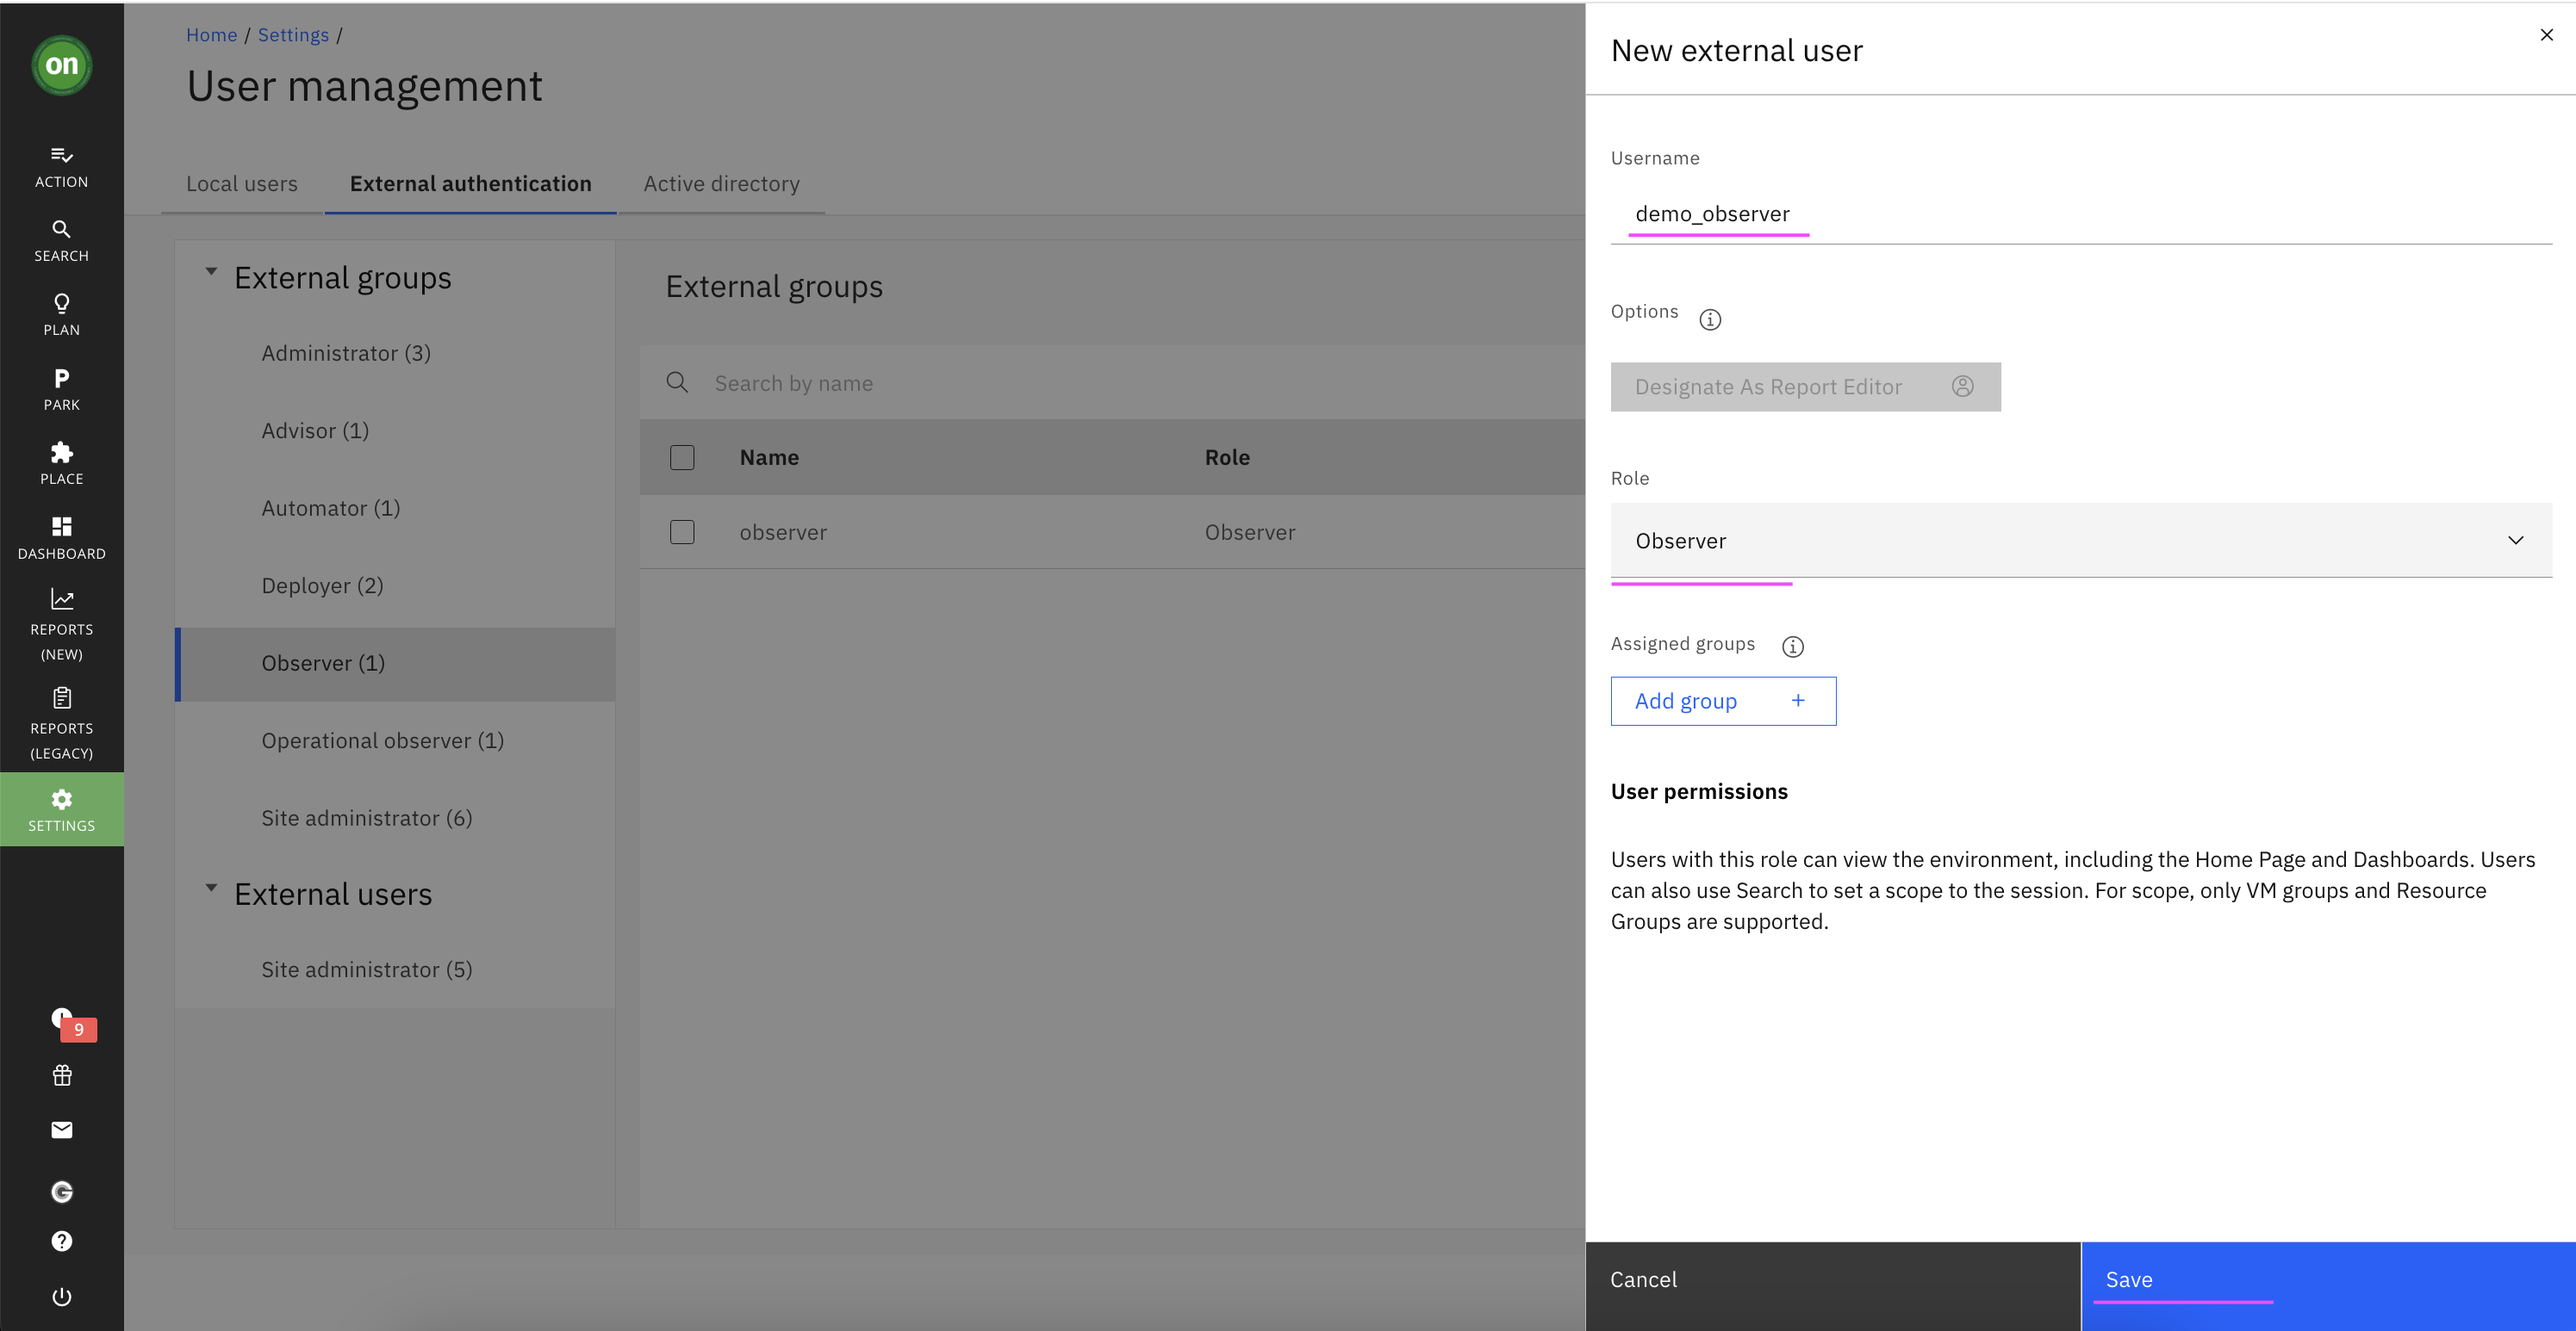
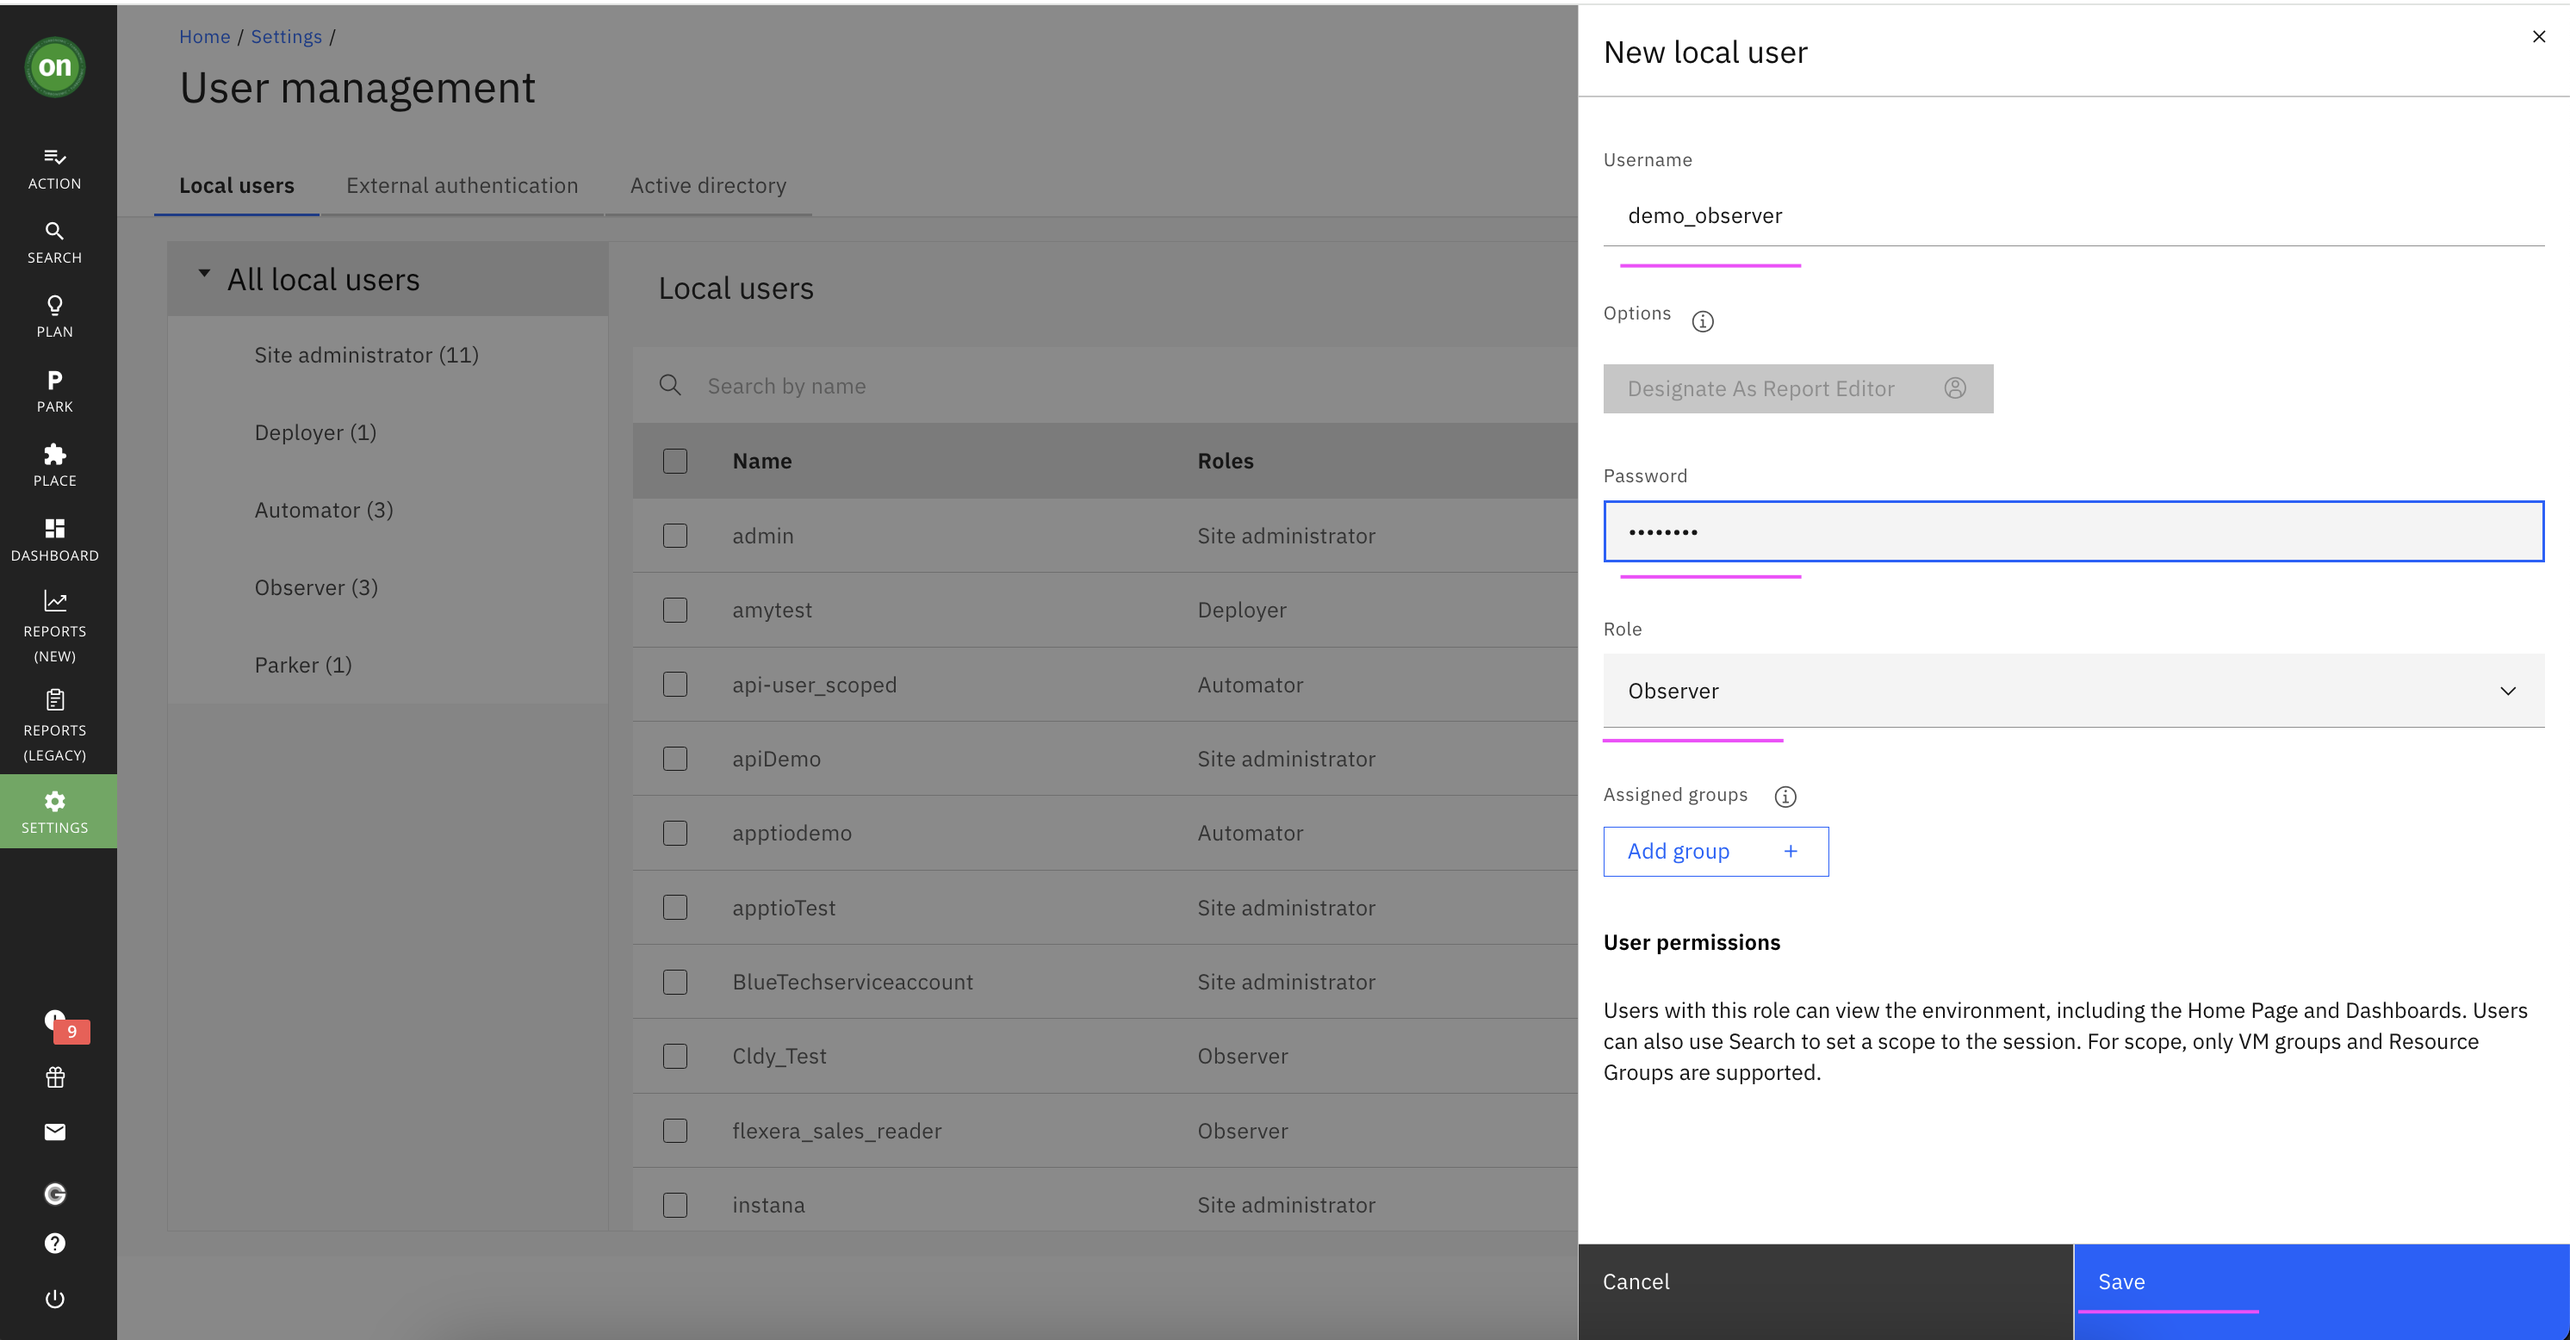
update

diff --git a/readme.md b/readme.md
@@ -2,15 +2,15 @@
 
 In this document let's explore about how to use Turbonomic API in the Postman.
 
-## 1. Create External User
+## 1. Create Local User
 
-1. Create a new External user by choosing the below menu option.
+1. Create a new Local user by choosing the below menu option.
 
-`SETTINGS > External Authentication > Observer > Add > New External User`
+`Home > SETTINGS > Local User >  New Local User`
 
 <img src="images/image-1-usr11.png">
 
-2. User name could be `demo_observer` and Role can be `Observer`
+2. User name could be `demo_observer`, give some password and choose role as `Observer`
 
 3. Click `Save` button
 
